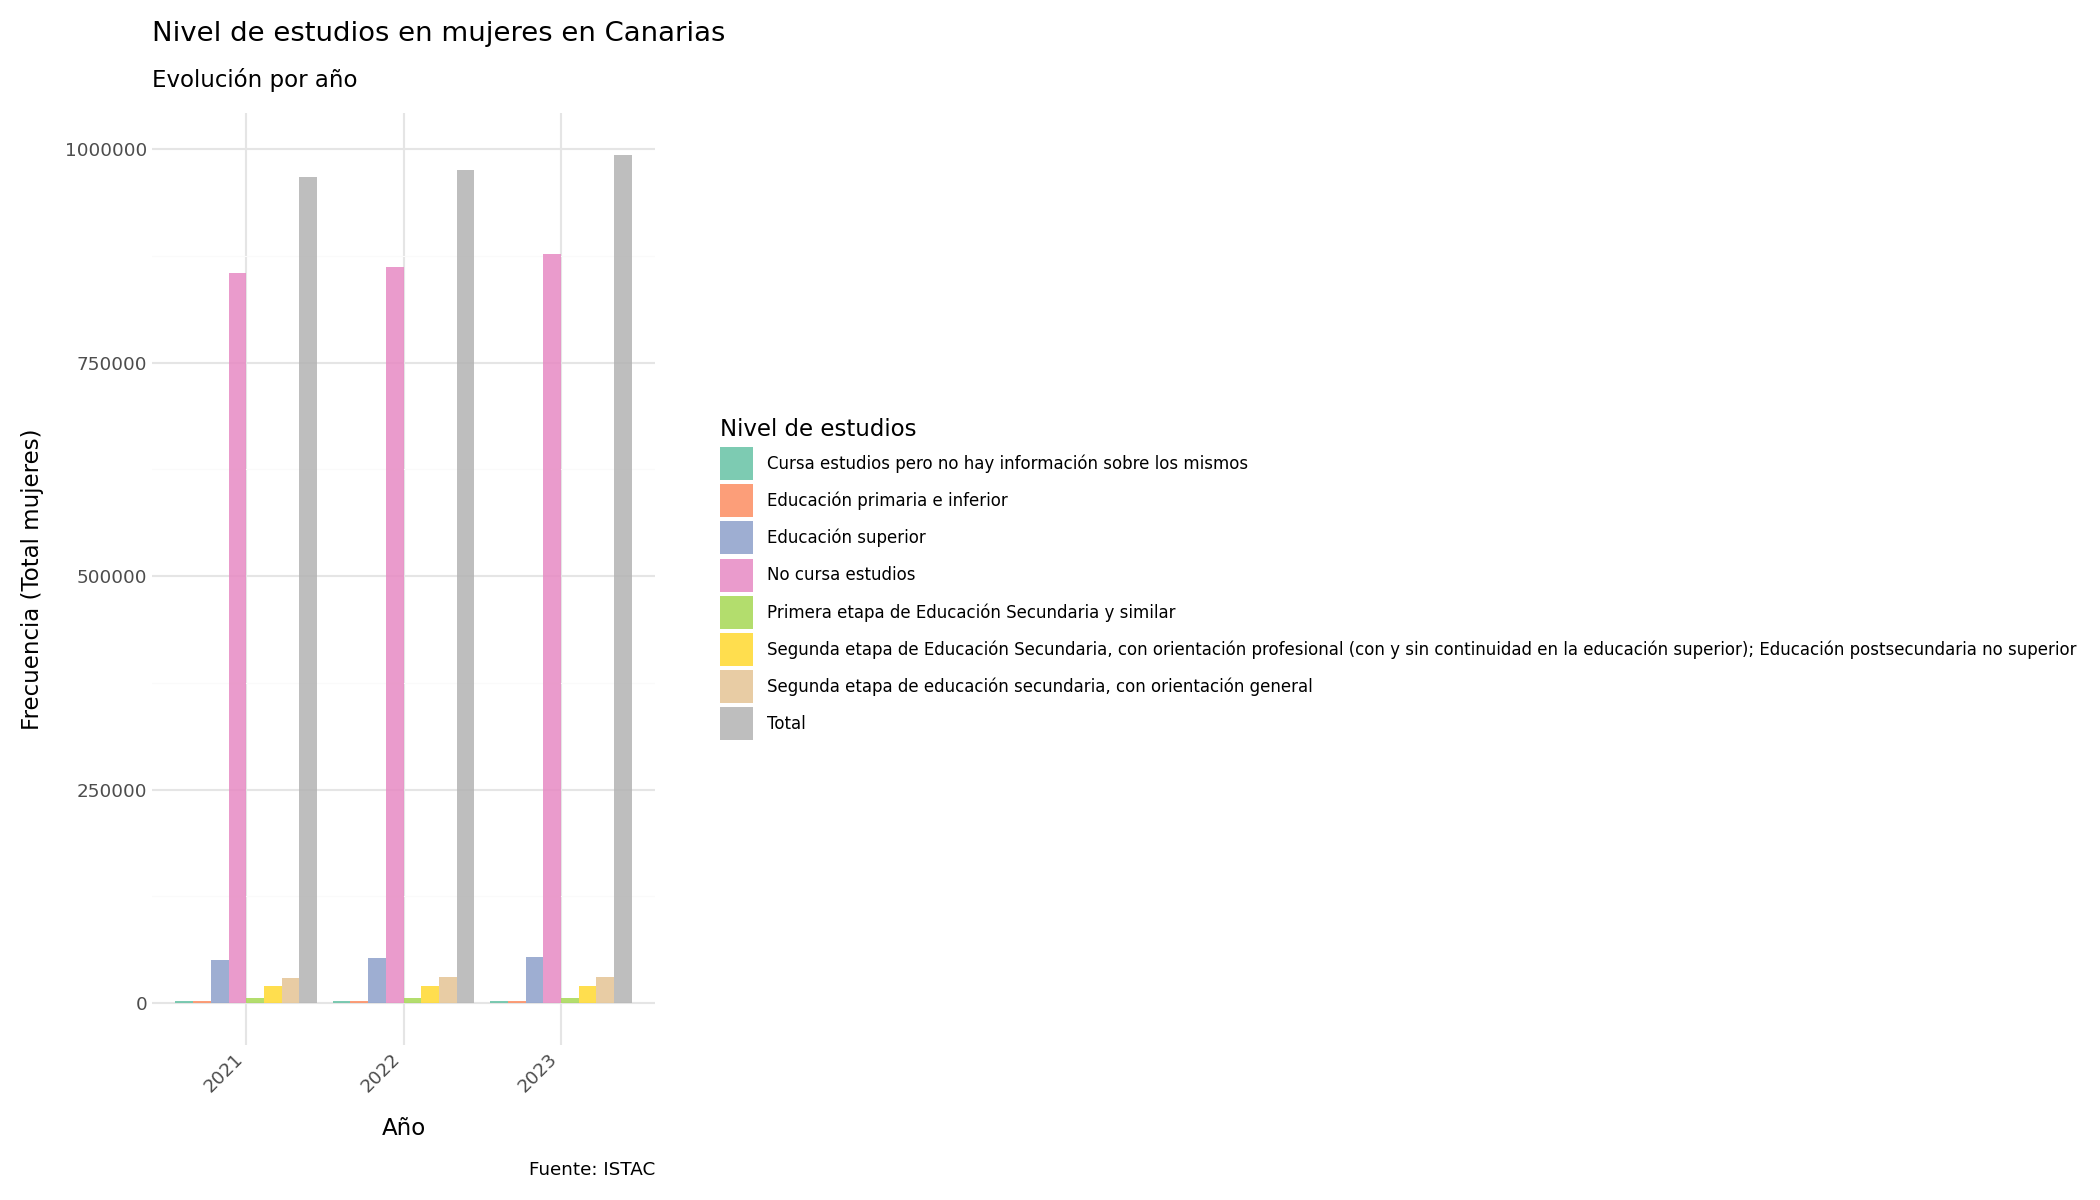
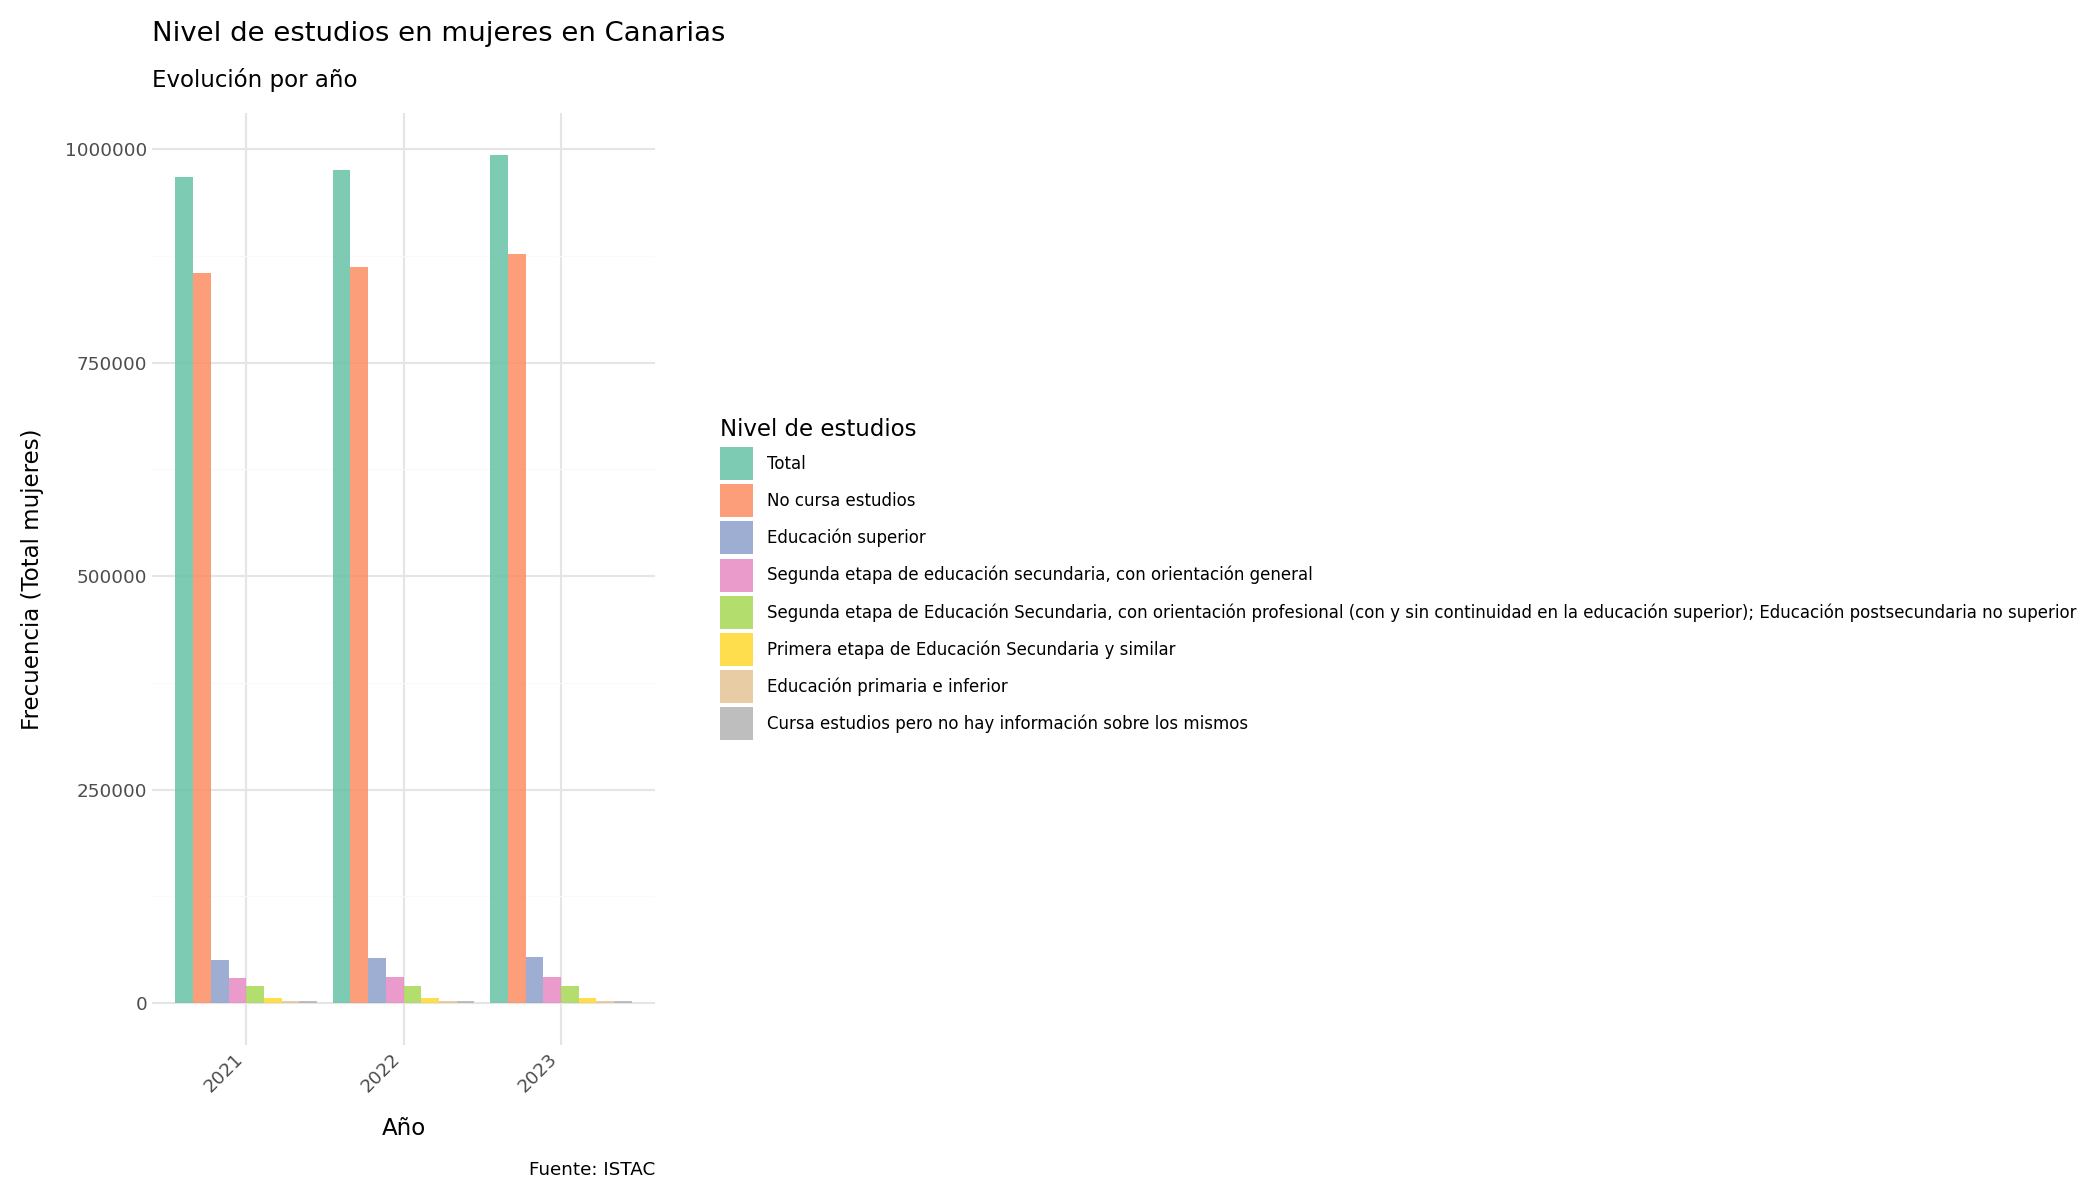
added some checks

Changed region(s): [[0.0619, 0.1233, 0.3095, 0.8325], [0.3714, 0.4625, 0.9905, 0.6167], [0.3714, 0.37, 0.5881, 0.4317]]

diff --git a/practica3/src/pipeline.py b/practica3/src/pipeline.py
@@ -1,11 +1,18 @@
 import pandas as pd
-from dagster import asset
+from dagster import asset, Output, Definitions, load_assets_from_current_module, load_asset_checks_from_current_module
 from src.data_loading import *
 from src.graphics import *
 
+@asset_check(asset=renta_canarias)
+def check_datos_para_graficos_canarias(df: pd.DataFrame) -> AssetCheckResult:
+    return AssetCheckResult(
+        passed=len(df) > 0,
+        metadata={"num_filas": len(df)}
+    )
+
 @asset(deps=[renta_canarias])
-def grafico_lineas_canarias(renta_canarias: pd.DataFrame) -> None:
-    crearGraficoDeLineas(
+def grafico_lineas_canarias(renta_canarias: pd.DataFrame) -> ggplot:
+    return crearGraficoDeLineas(
         renta_canarias,
         ruta="evolucion_renta_canarias",
         titulo="Evolución de la composición de la renta en Canarias",
@@ -14,6 +21,20 @@ def grafico_lineas_canarias(renta_canarias: pd.DataFrame) -> None:
         y=("porcentaje", "Porcentaje (%)"),
         color=("medida", "Tipo de ingreso"),
         group="medida"
+    )
+
+@asset_check(asset=grafico_lineas_canarias)
+def check_eje_y_desde_cero(grafico) -> AssetCheckResult:
+    y_scale = grafico.scales.get_scales('y')
+    y_min = y_scale.limits[0] if y_scale and y_scale.limits else None
+
+    passed = y_min is not None and y_min >= 0
+    return AssetCheckResult(
+        passed=passed,
+        metadata={
+            "valor_inicio_eje_y": float(y_min) if y_min is not None else "no definido",
+            "error_perceptivo": "Nulo" if passed else "Alto"
+        }
     )
 
 @asset(deps=[renta_canarias])
@@ -93,6 +114,16 @@ def grafico_areas_tenerife(renta_provincias: pd.DataFrame) -> None:
         fill=('medida', 'Tipo de ingreso')
     )
 
+@asset_check(asset=renta_municipios_enriquecida)
+def check_datos_gomera(df: pd.DataFrame) -> AssetCheckResult:
+    df_gomera = df[df["isla_code"].astype(str) == "381"]
+    municipios = df_gomera["nombre_municipio"].nunique()
+
+    return AssetCheckResult(
+        passed=municipios > 1,
+        metadata={"municipios_distintos": municipios}
+    )
+
 # Mapa de calor sobre año y municipios donde cada cuadrado representa
 # como varía en el tiempo el porcentaje de Sueldos y salarios en La Gomera
 @asset(deps=[renta_municipios_enriquecida])
@@ -112,10 +143,33 @@ def grafico_heatmap_municipios_gomera(renta_municipios_enriquecida: pd.DataFrame
     )
 
 @asset(deps=[nivel_estudios_df])
-def grafico_nivel_estudios_mujeres(nivel_estudios_df: pd.DataFrame) -> None:
-    crearGraficoBarrasNivelEstudiosMujeres(
+def grafico_nivel_estudios_mujeres(nivel_estudios_df: pd.DataFrame) -> ggplot:
+    return crearGraficoBarrasNivelEstudiosMujeres(
         nivel_estudios_df,
         ruta="barras_nivel_estudios_mujeres",
         titulo="Nivel de estudios en mujeres en Canarias",
         subtitulo="Evolución por año"
     )
+
+@asset_check(asset=grafico_nivel_estudios_mujeres)
+def check_orden_magnitud_barras(grafico) -> AssetCheckResult:
+    data = grafico.data
+    valores = (
+        data.groupby("Nivel de estudios en curso")["Total"]
+        .sum()
+        .tolist()
+    )
+    sorted_vals = sorted(valores, reverse=True)
+    return AssetCheckResult(
+        passed=valores == sorted_vals,
+        metadata={
+            "orden_detectado": [int(v) for v in valores],
+            "orden_esperado": [int(v) for v in sorted_vals],
+            "is_sorted": bool(valores == sorted_vals)
+        }
+    )
+
+defs = Definitions(
+    assets=load_assets_from_current_module(),
+    asset_checks=load_asset_checks_from_current_module()
+)

diff --git a/practica3/src/data_loading.py b/practica3/src/data_loading.py
@@ -1,6 +1,6 @@
 from pathlib import Path
 import pandas as pd
-from dagster import asset
+from dagster import asset, asset_check, AssetCheckResult
 
 PROJECT_ROOT = Path(__file__).parent.parent  # practica2/
 DATA_DIR = PROJECT_ROOT / "data"
@@ -22,6 +22,31 @@ def renta_canarias_df() -> pd.DataFrame:
         "MEDIDAS#es": "medida"
     })
     return df
+
+@asset_check(asset=renta_canarias_df)
+def check_columnas_renta_canarias(df: pd.DataFrame) -> AssetCheckResult:
+    columnas_esperadas = {
+        "TERRITORIO_CODE",
+        "municipio",
+        "anio",
+        "porcentaje",
+        "medida"
+    }
+    faltantes = columnas_esperadas - set(df.columns)
+
+    return AssetCheckResult(
+        passed=len(faltantes) == 0,
+        metadata={"columnas_faltantes": list(faltantes)}
+    )
+
+@asset_check(asset=renta_canarias_df)
+def check_tipos_renta_canarias(df: pd.DataFrame) -> AssetCheckResult:
+    passed = (
+        pd.api.types.is_integer_dtype(df["anio"]) and
+        pd.api.types.is_numeric_dtype(df["porcentaje"])
+    )
+
+    return AssetCheckResult(passed=passed)
 
 @asset
 def codislas_df() -> pd.DataFrame:
@@ -49,6 +74,25 @@ def renta_canarias(renta_canarias_df: pd.DataFrame) -> pd.DataFrame:
         renta_canarias_df["TERRITORIO_CODE"] == "ES70"
     ].copy()
 
+@asset_check(asset=renta_canarias)
+def check_sin_nulos_renta_canarias(df: pd.DataFrame) -> AssetCheckResult:
+    nulos = df[["anio", "porcentaje", "medida"]].isna().sum().to_dict()
+
+    return AssetCheckResult(
+        passed=all(v == 0 for v in nulos.values()),
+        metadata=nulos
+    )
+
+@asset_check(asset=renta_canarias)
+def check_porcentajes_validos(df: pd.DataFrame) -> AssetCheckResult:
+    fuera_rango = df[
+        (df["porcentaje"] < 0) | (df["porcentaje"] > 100)
+    ]
+
+    return AssetCheckResult(
+        passed=fuera_rango.empty,
+        metadata={"filas_fuera_rango": len(fuera_rango)}
+    )
 
 @asset(deps=[renta_canarias_df])
 def renta_provincias(renta_canarias_df: pd.DataFrame) -> pd.DataFrame:
@@ -79,6 +123,15 @@ def renta_municipios_enriquecida(
     )
 
     return df
+
+@asset_check(asset=renta_municipios_enriquecida)
+def check_merge_municipios(df: pd.DataFrame) -> AssetCheckResult:
+    sin_nombre = int(df["nombre_municipio"].isna().sum())
+
+    return AssetCheckResult(
+        passed=sin_nombre == 0,
+        metadata={"municipios_sin_nombre": sin_nombre}
+    )
 
 @asset
 def nivel_estudios_df() -> pd.DataFrame:

diff --git a/practica3/src/graphics.py b/practica3/src/graphics.py
@@ -51,7 +51,7 @@ def crearGraficoDeLineas(df: pd.DataFrame, ruta: str, titulo: str, subtitulo: st
     )
 
     grafico_lineas.save(GRAFICOS_DIR / f"{ruta}.png", dpi=150)
-
+    return grafico_lineas
 
 def crearGraficoDeAreas(df: pd.DataFrame, ruta: str, titulo: str, subtitulo: str,
                         x: tuple[str, str], y: tuple[str, str], 
@@ -83,6 +83,7 @@ def crearGraficoDeAreas(df: pd.DataFrame, ruta: str, titulo: str, subtitulo: str
     )
 
     grafico_area.save(GRAFICOS_DIR / f"{ruta}.png", dpi=150)
+    return grafico_area
 
 def crearMapaDeCalor(df: pd.DataFrame, ruta: str, titulo: str, subtitulo: str,
                      x: tuple[str, str], y: tuple[str, str], 
@@ -122,6 +123,7 @@ def crearMapaDeCalor(df: pd.DataFrame, ruta: str, titulo: str, subtitulo: str,
         )
     )
     grafico_heatmap.save(GRAFICOS_DIR / f"{ruta}.png", dpi=150)
+    return grafico_heatmap
 
 def crearGraficoBarrasNivelEstudiosMujeres(df: pd.DataFrame, ruta: str, titulo: str, subtitulo: str):
     # Filtrar solo mujeres
@@ -132,6 +134,21 @@ def crearGraficoBarrasNivelEstudiosMujeres(df: pd.DataFrame, ruta: str, titulo: 
     df_agrupado = df_mujeres.groupby(['Año', 'Nivel de estudios en curso'])['Total'].sum().reset_index()
     # Filtrar solo registros con datos
     df_agrupado = df_agrupado[df_agrupado['Total'] > 0]
+
+    # Ordenamos
+    orden = (
+        df_agrupado.groupby('Nivel de estudios en curso')['Total']
+        .sum()
+        .sort_values(ascending=False)
+        .index.tolist()
+    )
+    df_agrupado['Nivel de estudios en curso'] = pd.Categorical(
+        df_agrupado['Nivel de estudios en curso'],
+        categories=orden,
+        ordered=True
+    )
+    df_agrupado = df_agrupado.sort_values('Nivel de estudios en curso')
+
     grafico = (
         ggplot(
             df_agrupado,
@@ -160,3 +177,4 @@ def crearGraficoBarrasNivelEstudiosMujeres(df: pd.DataFrame, ruta: str, titulo: 
         )
     )
     grafico.save(GRAFICOS_DIR / f"{ruta}.png", dpi=150)
+    return grafico
